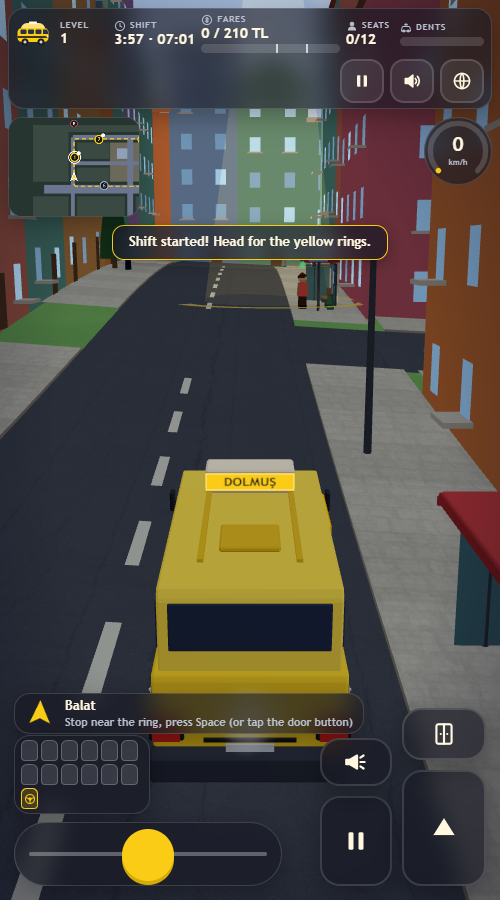
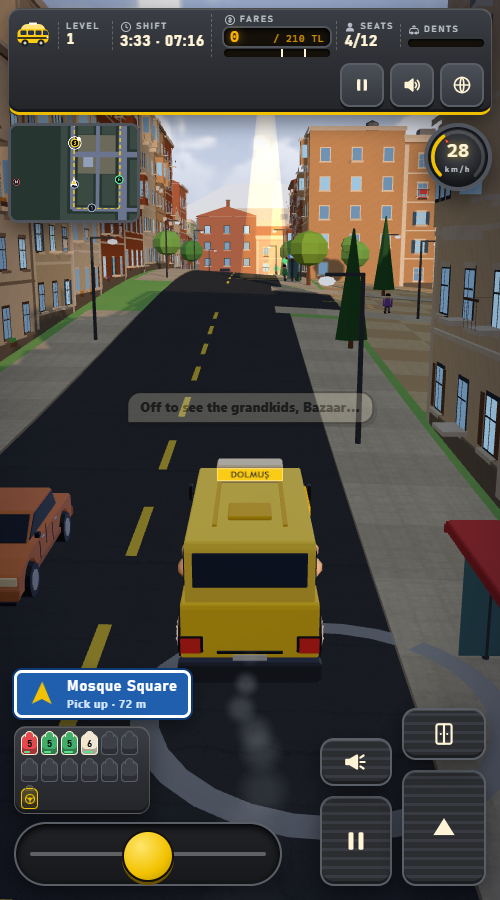
docs: redesign section, measured numbers and refreshed screenshots; stronger wet-road sheen
Claude-Session: https://claude.ai/code/session_014vMYwwQ3htV8WjCni8q7av

diff --git a/index.html b/index.html
@@ -3434,13 +3434,13 @@ function patchDetail(mat, ground) {
          diffuseColor.rgb *= 1.0 + (wA * (a - 1.0) * uAmt.x + wP * (c - 1.0) * uAmt.y) * uTexOn;` : ''}
          gWet = uWet * (wA + 0.3 * wP); diffuseColor.rgb *= 1.0 - 0.4 * gWet;`;
     const refl = ground ? '' : `if (gWet > 0.001) {
-      vec3 Vd = normalize(cameraPosition - vWP); float fr = pow(1.0 - clamp(Vd.y, 0.0, 1.0), 2.2);
+      vec3 Vd = normalize(cameraPosition - vWP); float fr = 0.12 + 0.88 * pow(1.0 - clamp(Vd.y, 0.0, 1.0), 1.8);
       vec3 Rd = reflect(-Vd, vec3(0.0, 1.0, 0.0)); float e = clamp(Rd.y, 0.0, 1.0);
       vec3 sky = mix(uSkyH, uSkyT, pow(e, 0.6)); sky = mix(sky, uSkyH * 0.5, (1.0 - smoothstep(0.02, 0.3, e)) * 0.75);
       float ang = atan(Rd.z, Rd.x) * 11.0, hh = fract(sin(floor(ang) * 91.7 + 12.3) * 43758.5);
       float streak = smoothstep(0.4, 0.0, abs(fract(ang) - 0.5)) * step(0.6, hh) * (1.0 - smoothstep(0.0, 0.5, e)) * uNight;
       vec3 lights = mix(vec3(1.0, 0.78, 0.45), vec3(0.0, 0.75, 0.65), step(0.5, fract(hh * 7.0))) * streak;
-      outgoingLight += gWet * fr * (sky * 0.5 + lights * 1.1);
+      outgoingLight += gWet * fr * (sky * 0.8 + lights * 1.1);
     }`;
     sh.fragmentShader = sh.fragmentShader.replace('#include <common>', '#include <common>\nvarying vec3 vWP; uniform sampler2D tAsph, tPave, tGrass; uniform vec3 uAvg, uAmt, uSkyH, uSkyT; uniform float uTexOn, uWet, uNight; float gWet = 0.0;')
       .replace('#include <color_fragment>', '#include <color_fragment>\n{ ' + body + ' }')

diff --git a/README.md b/README.md
@@ -42,8 +42,8 @@
   pigeons scatter at the horn.
 - **Balanced by a bot.** The `?auto` bot drives with the same controls and rules as a player and finished all 8 levels;
   the star thresholds were calibrated against it.
-- **Light on a laptop GPU.** About 60 fps (the vsync cap) on an Intel UHD 630 laptop at 1280x720 with 42 draw calls on
-  the High tier, and a `?low` tier for phones ([measurements](docs/assets.md)).
+- **Light on a laptop GPU.** About 60 fps (the vsync cap) on an Intel UHD 620 laptop at 1280x720 with 52 to 65 draw
+  calls on the High tier (measured for the redesign, see below), and a `?low` tier for phones.
 - **One file, made in code.** One `index.html` with Three.js r170 from a CDN; the base game is procedural, with an
   optional CC0 asset pass loaded on top.
 
@@ -138,7 +138,7 @@ The live state is on `window.dolmus` (state, level, time, net, score, seats, den
     <td width="33%"><img src="docs/06-shift-summary.png" alt="Shift summary"><br><sub>Shift summary</sub></td>
   </tr>
   <tr>
-    <td><img src="docs/03-rain-van.png" alt="Rain and the double-parked van"><br><sub>Rain and the double-parked van</sub></td>
+    <td><img src="docs/03-rain-van.png" alt="Rain on the road to the pier"><br><sub>Rain and wet roads</sub></td>
     <td><img src="docs/04-night.png" alt="Night shift"><br><sub>Night shift</sub></td>
     <td><img src="docs/assets-after-close.png" alt="The dolmuş at a stop with the asset pass"><br><sub>At a stop (asset pass)</sub></td>
   </tr>
@@ -174,9 +174,10 @@ The live state is on `window.dolmus` (state, level, time, net, score, seats, den
 ## Balance
 
 The simulation runs at a fixed 60 Hz step and does not need the renderer, so `?auto&sim=4000` plays the whole campaign
-without rendering. With assets, with `?noassets` and with `?low` it gives the same result: levels 1 to 8 finished, with
-stars / net lira 1: 2/306, 2: 1/254, 3: 2/282, 4: 3/402, 5: 2/272, 6: 2/344, 7: 3/459 and 8: 3/478 (after one retry),
-and no JS errors ([verification run](docs/assets.md#verification-run)).
+without rendering. With assets, with `?noassets` and with `?low` it gives the same result: all 8 levels reached the
+shift end, with stars / net lira 1: 2/327, 2: 2/356, 3: 2/327, 4: 2/332, 5: 3/312, 6: 2/352, 7: 2/437 and 8: 1/265, and no
+JS errors (re-measured on 2026-11-02 for the redesign; `main` before the redesign gives exactly the same numbers). The
+older figures in [docs/assets.md](docs/assets.md#verification-run) predate the v2 changes.
 
 ## Running locally
 
@@ -231,6 +232,52 @@ Upgraded by Claude Sonnet 5.5 with Claude Code from [prompts/dolmus-v2.md](promp
 - A shift summary that names the two costliest mistakes with a one-line tip, the best tip and the anywhere drops.
 - District identity (Balat, Galata / Karaköy, Kadıköy pier), shop awnings, umbrellas and puddles in rain, lit windows
   and stop-shelter glow at night, and the white Turkish Van kitten on the summary card.
+
+## Redesign (2026-11)
+
+**Art direction:** a taxi-dashboard city. Palette: dolmuş yellow `#F2C200`, asphalt `#2B2D31`, Istanbul brick `#A0522D`,
+tram red `#C62828` and neon teal `#00BFA6` at night. The UI is an instrument cluster: roof-sign headings, a speedometer
+dial, an amber LCD fare meter, a blue direction sign and a paper fare receipt as the end screen.
+
+<p align="center"><img src="docs/redesign-before-after.png" alt="Same camera, before (left) and after (right) the redesign, day"><br>
+<img src="docs/redesign-before-after-night.png" alt="Same camera, before (left) and after (right), night shift with wet roads"><br>
+<sub>Same camera, before (left) and after (right).</sub></p>
+
+What changed (looks, motion and UI only; physics, controls, levels, scoring, saves, flags and the bot are untouched):
+
+- **Façades.** Every window has a frame, sill, lintel and mullions; shutters, flower boxes, balconies with railings,
+  air conditioners, cumba bay windows, belt courses, cornices, plinths and corner quoins; roofs get chimneys, water tanks,
+  antennas and dishes. Shop fronts get door surrounds, stall risers, produce crates, café tables and blade signs. On the
+  High tier a world-space masonry texture shows brick courses on brick-coloured walls and stucco mottling elsewhere.
+  All of it uses its own random stream and its own meshes (one per 64 m chunk, culled by view and by distance), so the
+  city layout and the colliders are exactly the old ones.
+- **Night and neon.** About 120 neon blade signs (a canvas-drawn word atlas) with additive glow halos, a rare flicker and
+  tinted light pools on the pavement; warm halos on the street lamps; the stars (which never showed before) are visible.
+- **Wet roads.** In rain, and on the night shift, the asphalt darkens and mirrors a sky gradient at grazing angles, shows
+  light columns at night, gets mirror streaks of lamps and neon placed per frame, rain splashes and persistent puddles.
+- **Pedestrians.** Legs and arms are separate instanced limbs with opposite swing, torso lean, bounce and idle sway; the
+  hailing wave and the trouser colours are new.
+- **UI.** Dashboard strip with a taxi roof-sign brand, amber LCD fare meter with star-threshold rail, dial with ticks and a
+  pointer, passenger bench chips with headrests, blue direction sign, keycap hints, checker-band cards with sign-plate
+  headings, a cream fare receipt for the shift summary, restyled settings, pause and touch controls. Phone portrait and
+  landscape layouts were re-checked.
+
+Measured in headless Chrome on the Intel UHD (0x9B41) of the dev laptop at 1280x720, High tier, page rAF over 2.5 s:
+
+| Scene | draw calls before → after | triangles before → after |
+|---|---|---|
+| Day, chase camera | 41 → 52 | 209k → 278k |
+| Rain, chase camera | 49 → 60 | 225k → 293k |
+| Night, chase camera | 50 → 62 | 236k → 305k |
+| Night, street camera | 50 → 65 | 237k → 323k |
+
+After the redesign the page rAF stayed at the 60 fps vsync cap in all four scenes (60.4 to 60.8); before it read 52 to 54
+in the day scene and about 60 in the others, so the extra geometry did not cost frames here (readings on a shared laptop
+are noisy). Draw calls stay well under the 150 budget.
+
+The `?auto` bot (`?auto&debug&sim=4000`) finished all 8 shifts with zero JS errors with assets, with `?noassets` and with
+`?low`, with the same results as `main` (see Balance). Not verified: real phones and other browsers (only desktop Chrome
+was used, phone sizes were emulated), Firefox and Safari rendering, long sessions.
 
 ## Türkçe
 
